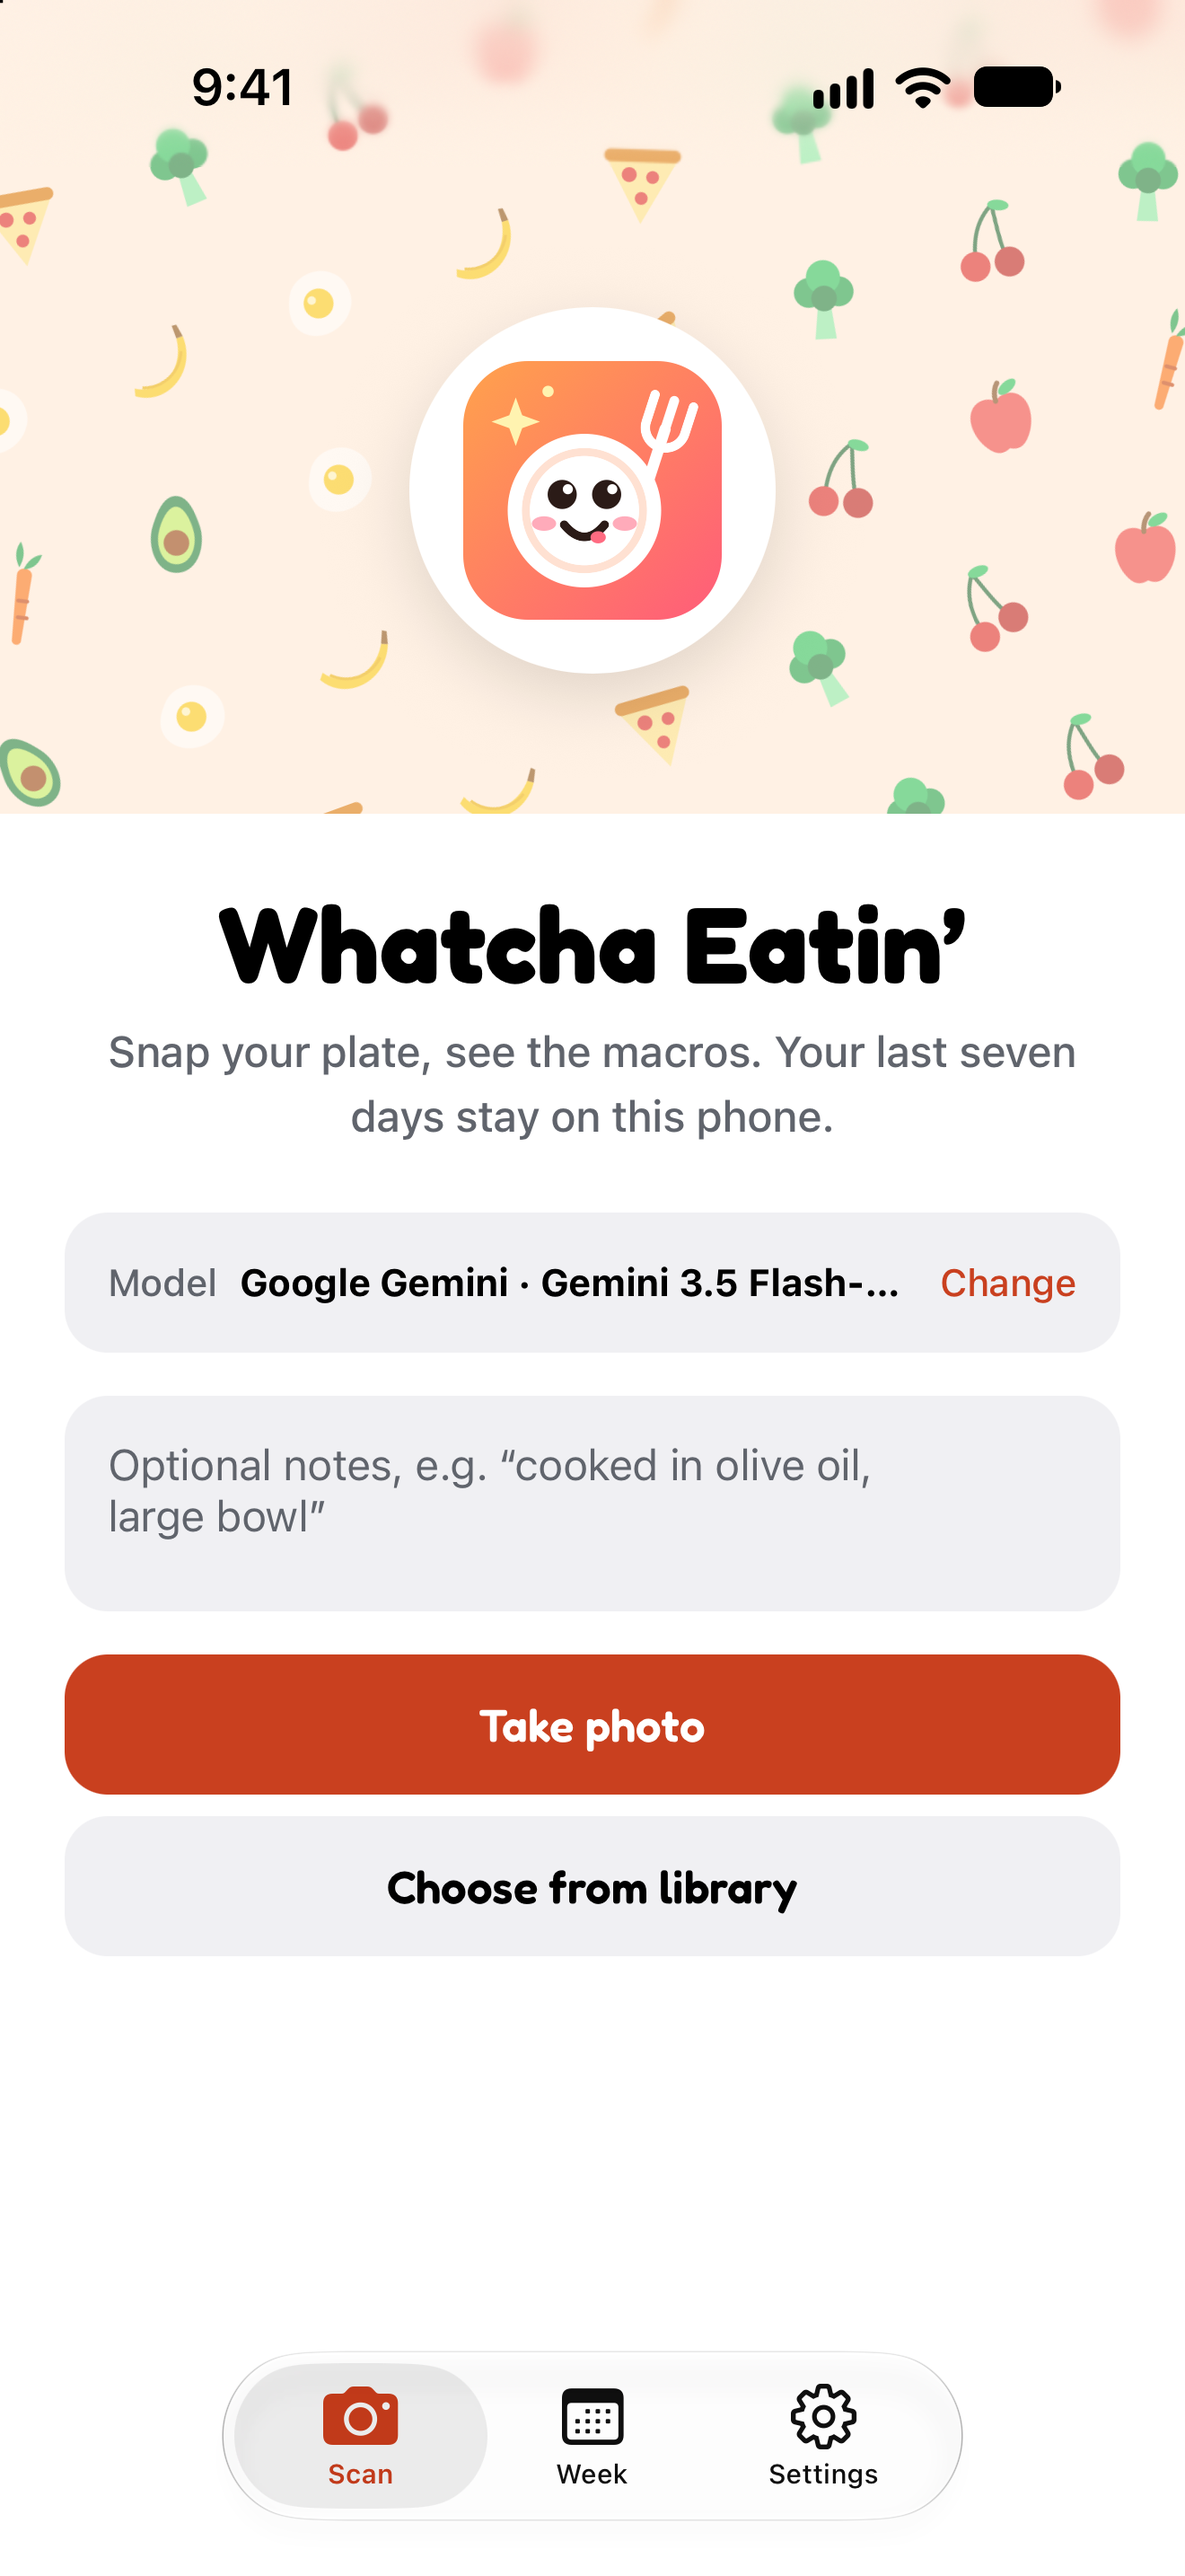
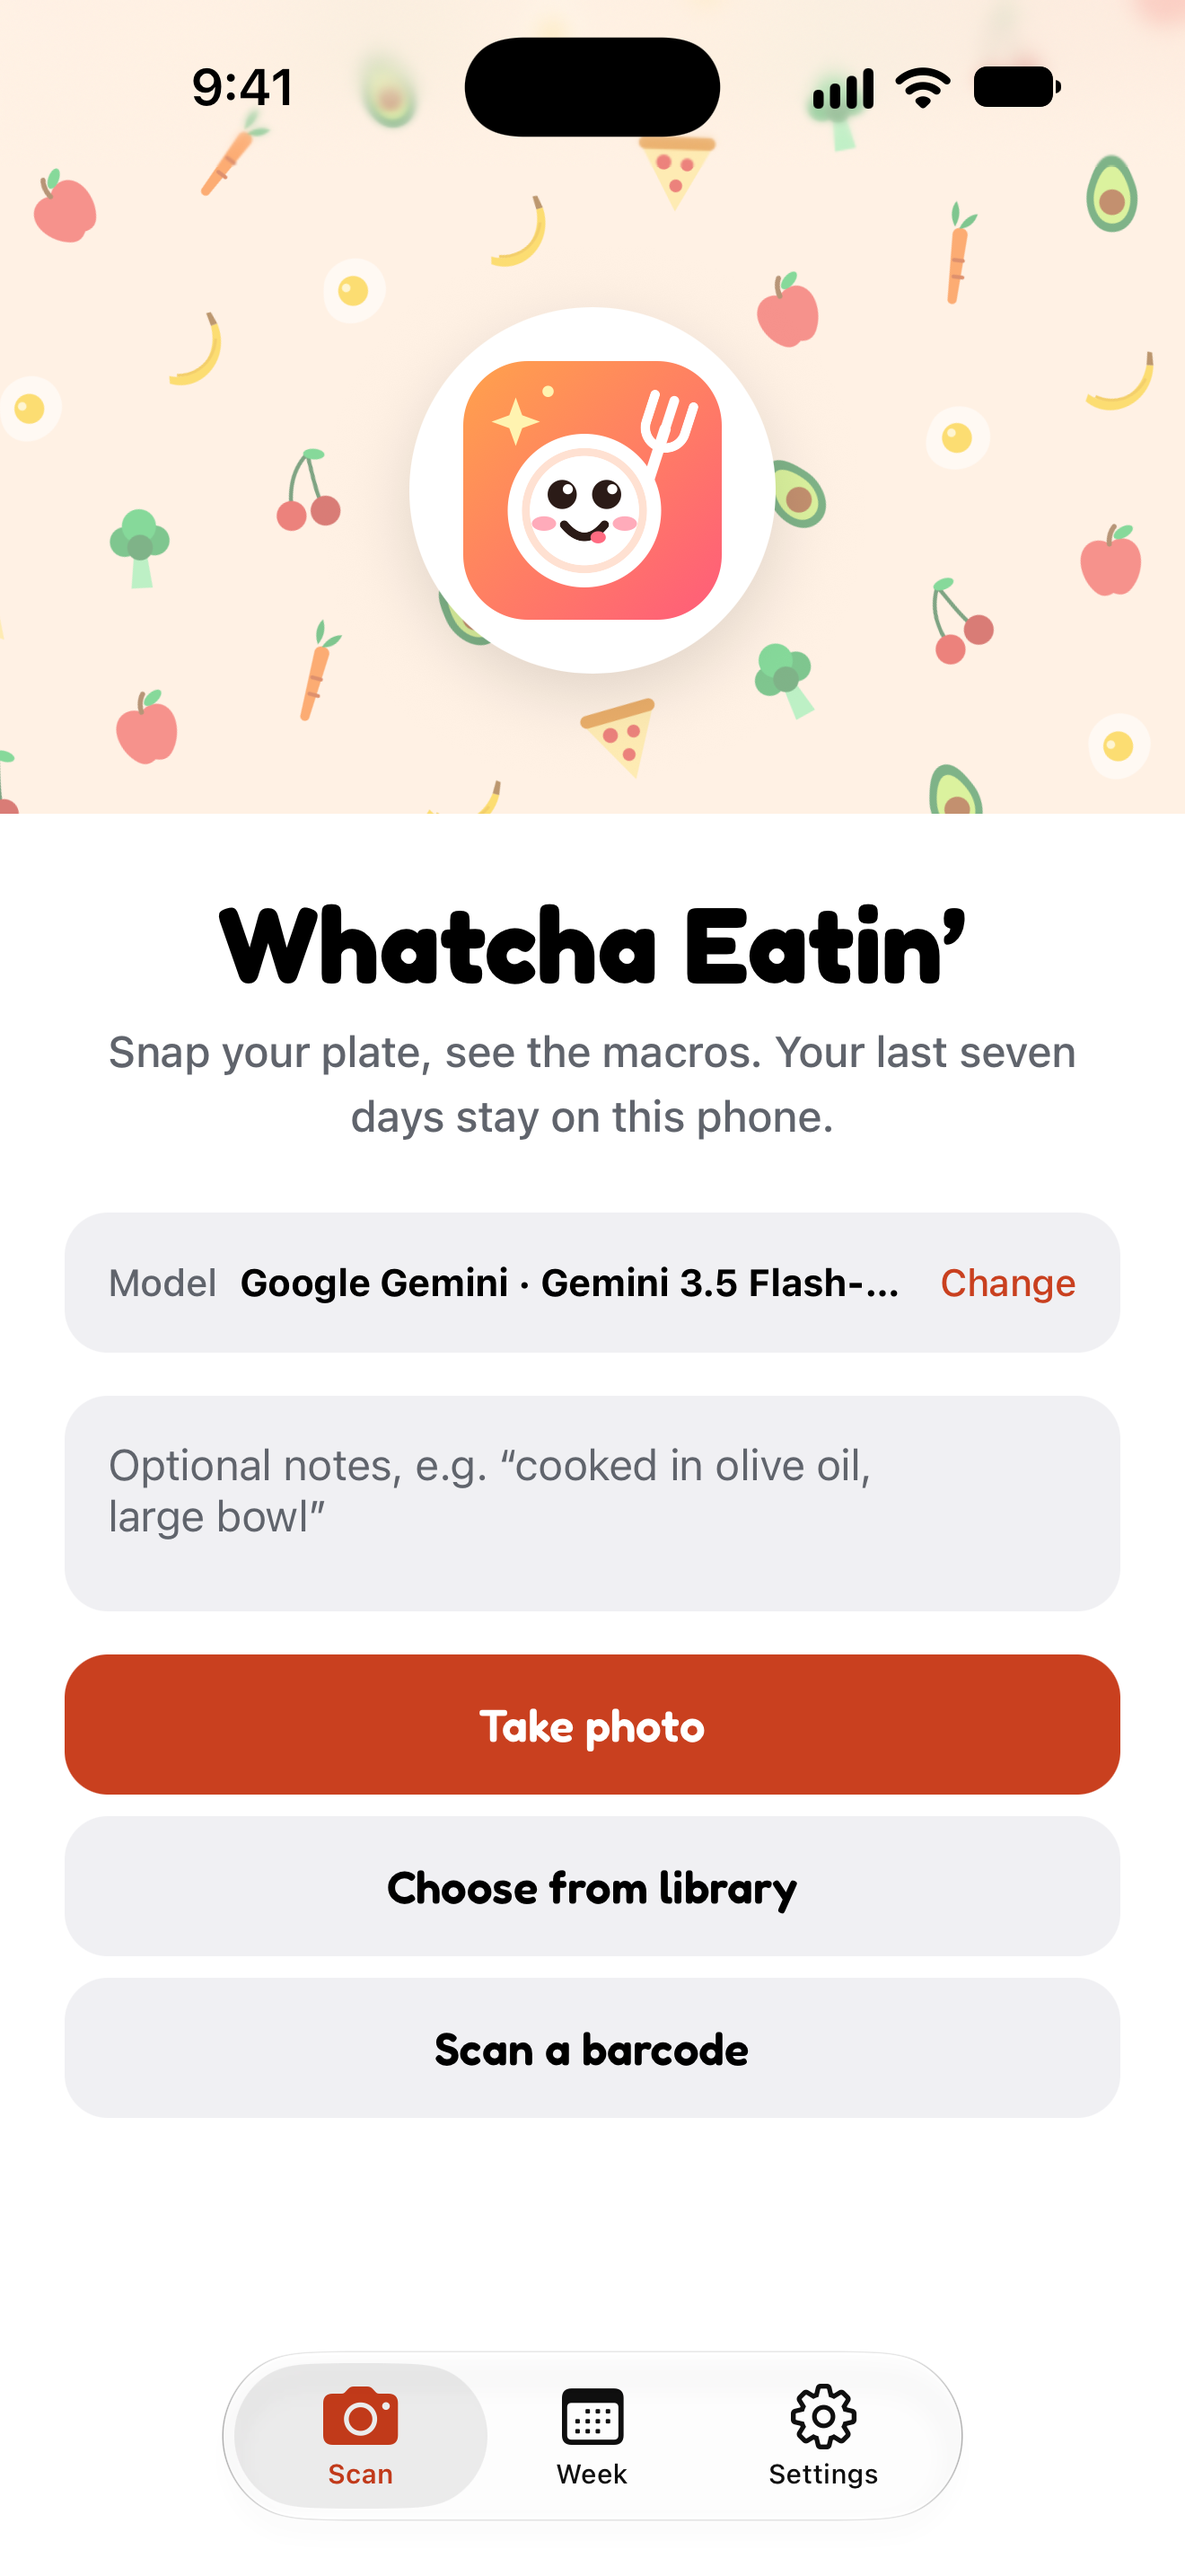
Update App Store screenshots for barcode scanning and targets

diff --git a/store/README.md b/store/README.md
@@ -161,11 +161,15 @@ Gemini's free tier allows a limited number of requests per day. Leave the key ac
 
 Ready to upload, in [`screenshots/`](screenshots/). All are 1320 × 2868 pixels, the 6.9-inch iPhone size, captured from the iPhone 18 Pro Max simulator with a clean 9:41 status bar. Upload them in this order:
 
-1. `01-scan.png`: Scan tab with the logo, hero and camera buttons
+1. `01-scan.png`: Scan tab with the logo, hero and the photo and barcode buttons
 2. `02-meal-result.png`: a meal's photo with its calorie and macro breakdown
-3. `03-week.png`: the Week calendar with daily totals and today's meals
-4. `04-gemini-key-guide.png`: the free Gemini key guide
-5. `05-settings.png`: AI provider choices in Settings
+3. `03-barcode-result.png`: a scanned bag of chips with its product photo and label nutrition
+4. `04-daily-targets.png`: lose, maintain and gain targets on the Week tab
+5. `05-week.png`: the 7-day calendar with daily totals and today's meals
+6. `06-gemini-key-guide.png`: the free Gemini key guide
+7. `07-settings.png`: AI provider choices in Settings
+
+Apple allows up to 10 screenshots. The first three show in search results, so keep that order.
 
 `extra-first-launch.png` shows the first-launch screen asking for a key. Swap it in for one of the five if you prefer.
 

diff --git a/store/screenshots/CREDITS.md b/store/screenshots/CREDITS.md
@@ -12,3 +12,5 @@ The sample meal photos in these screenshots are from Unsplash, used under the [U
 | Pesto Farfalle with Tomatoes | [Pesto pasta](https://unsplash.com/photos/12eHC6FxPyg) | Eaters Collective |
 
 The nutrition numbers shown for these meals are sample data written for the screenshots, not live AI results.
+
+The product photo in `03-barcode-result.png` comes from [Open Food Facts](https://world.openfoodfacts.org/product/0028400090858) and is licensed CC BY-SA. The app shows the same credit on the barcode screen.
